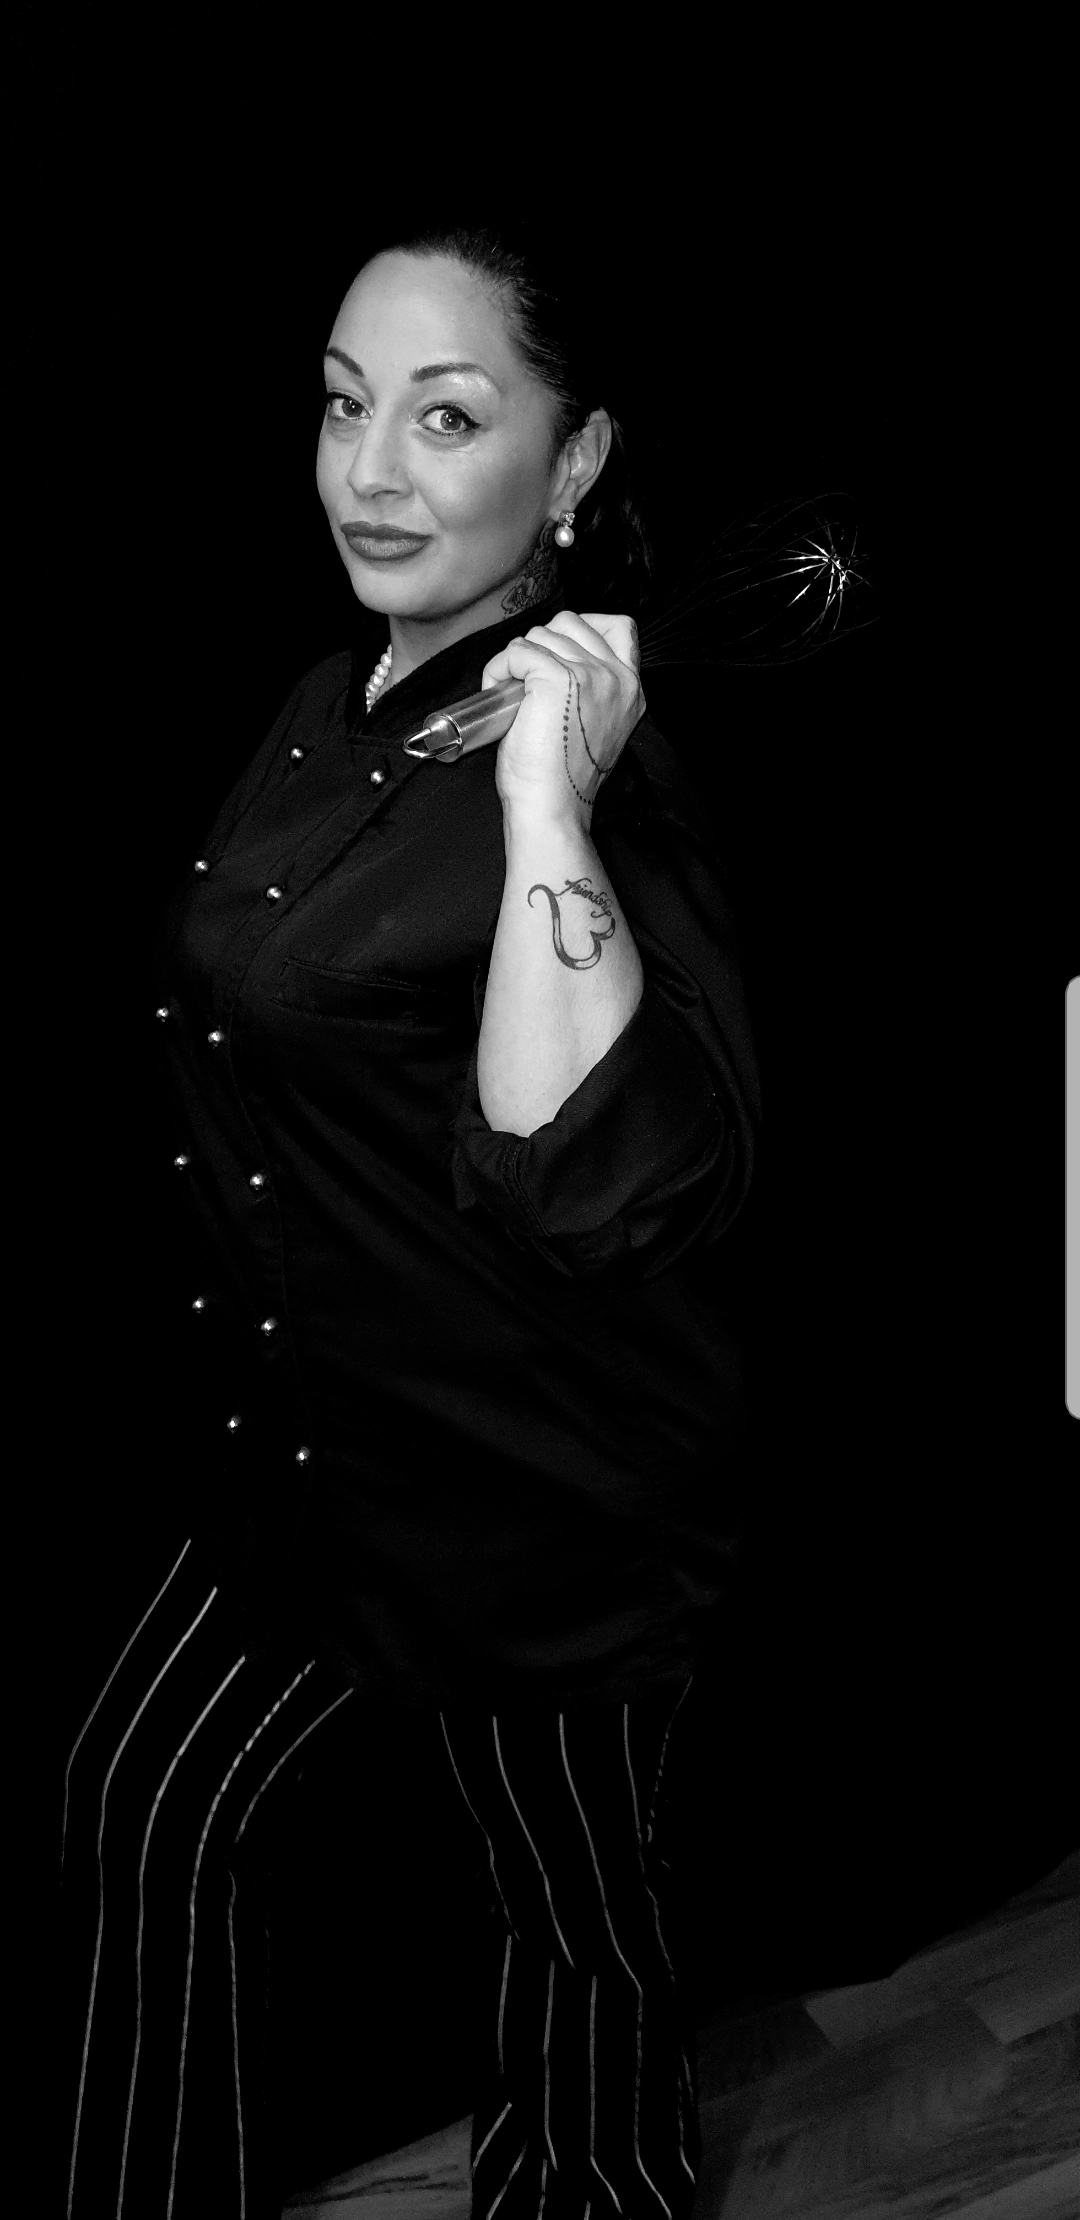
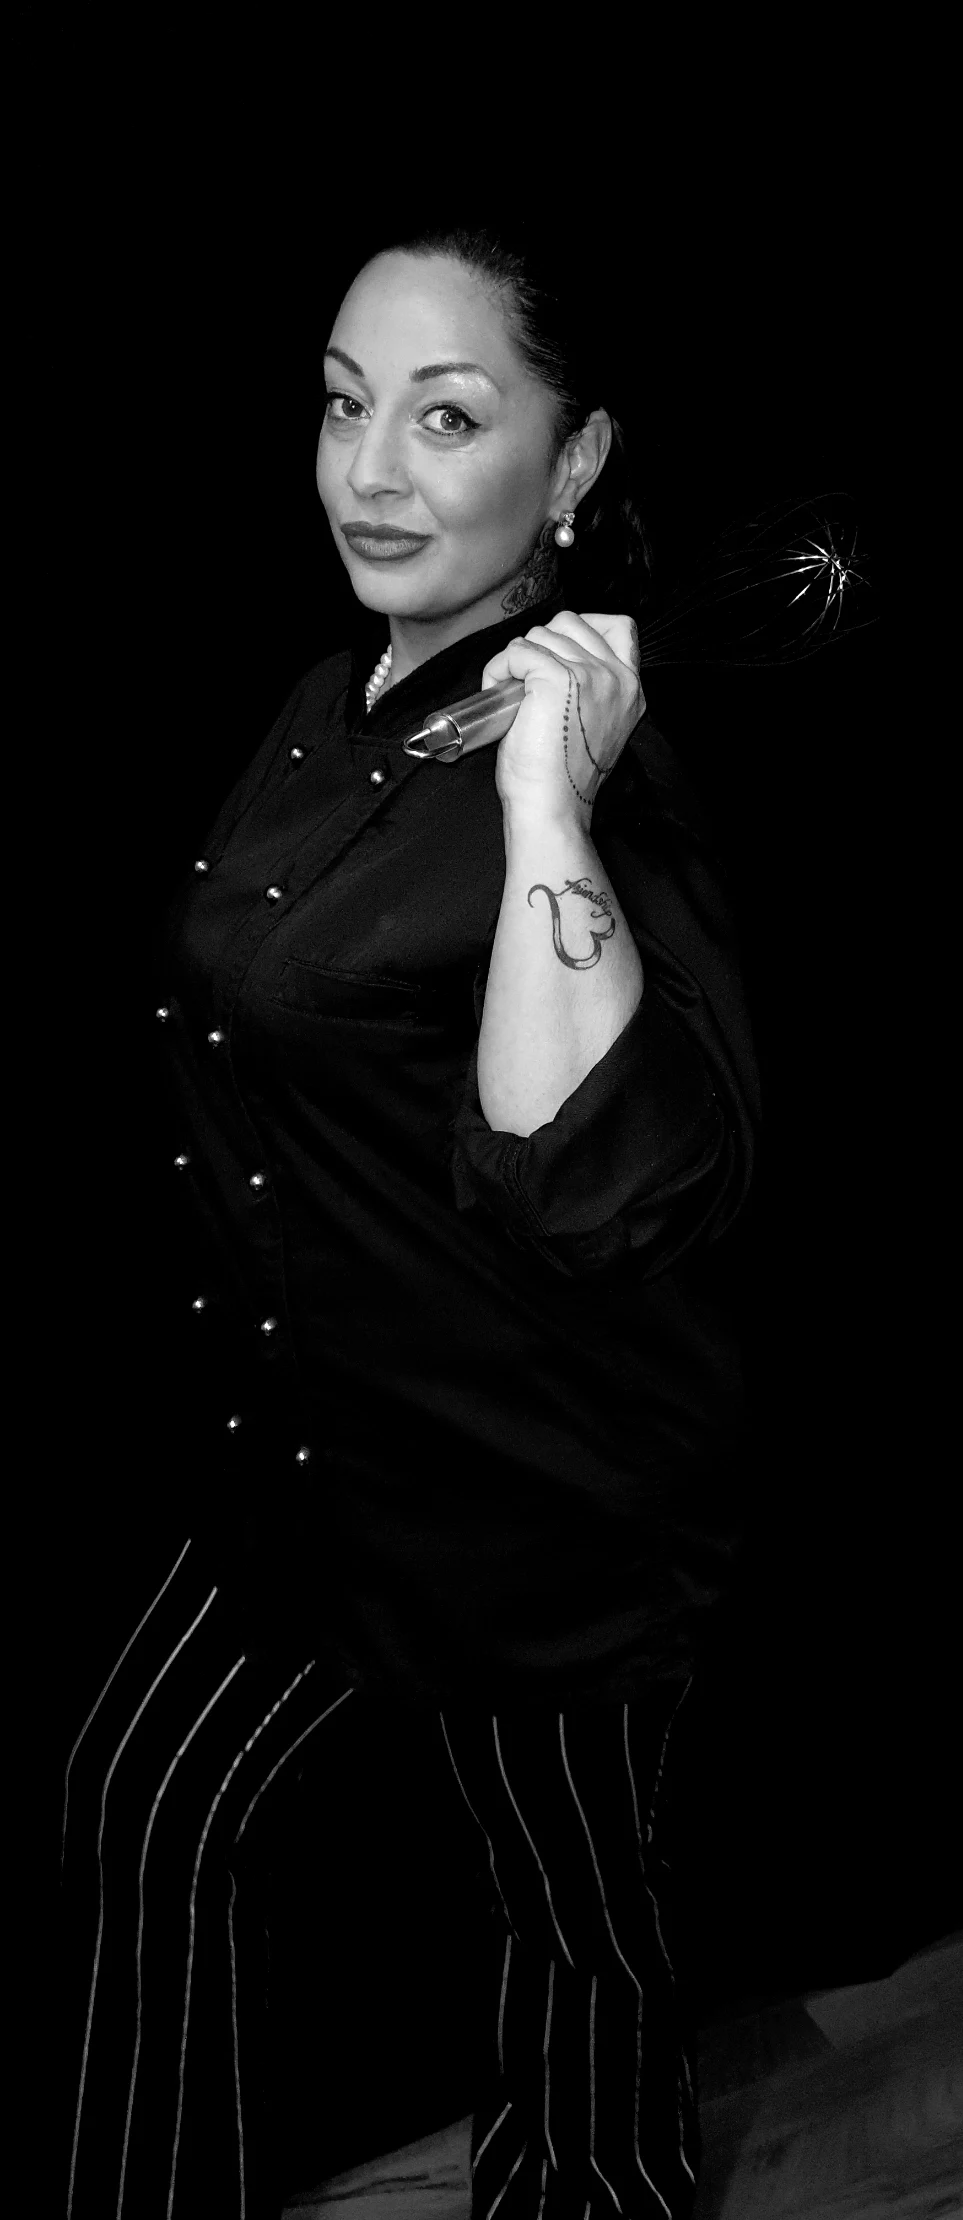
fix: Neues Selda-Bild (JPEG→WebP, 963×2220, 94KB), Scrollbalken wiederhergestellt

diff --git a/app/globals.css b/app/globals.css
@@ -86,10 +86,6 @@
 
 html {
   scroll-behavior: smooth;
-  scrollbar-width: none;
-}
-html::-webkit-scrollbar {
-  display: none;
 }
 
 body {